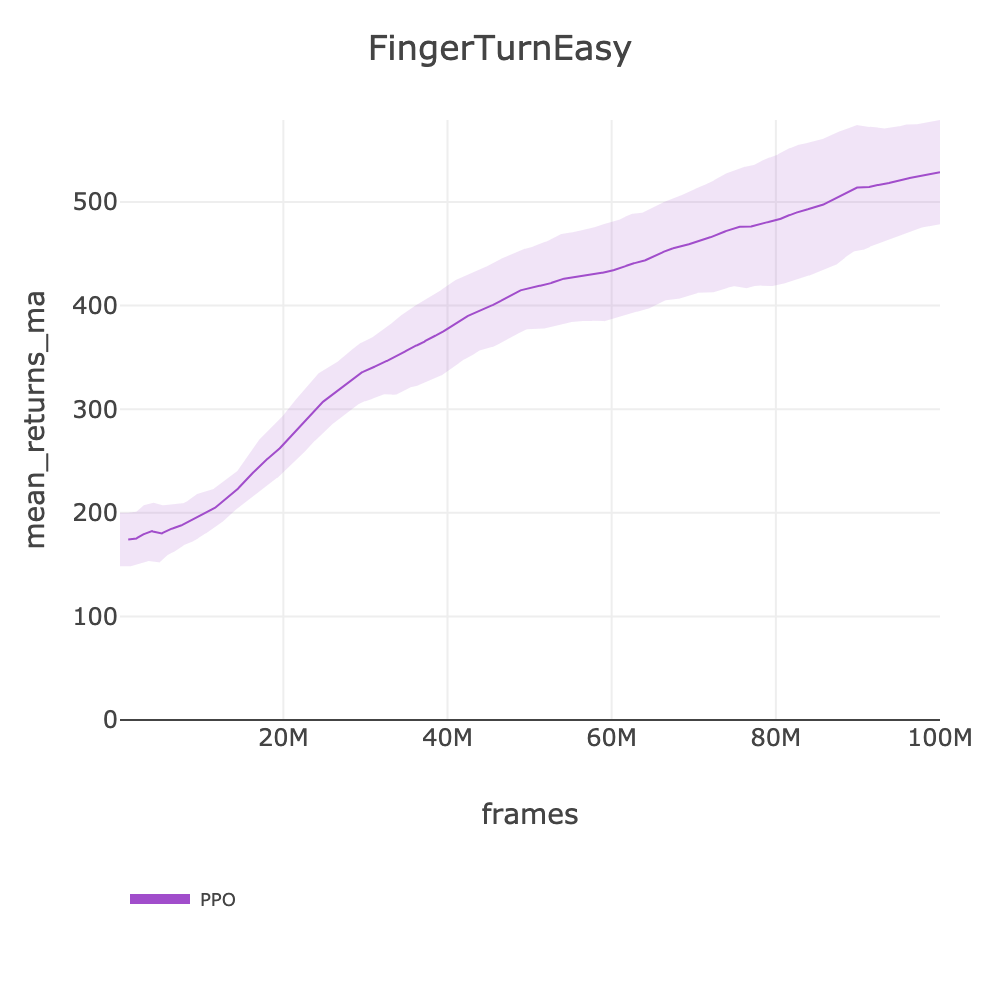
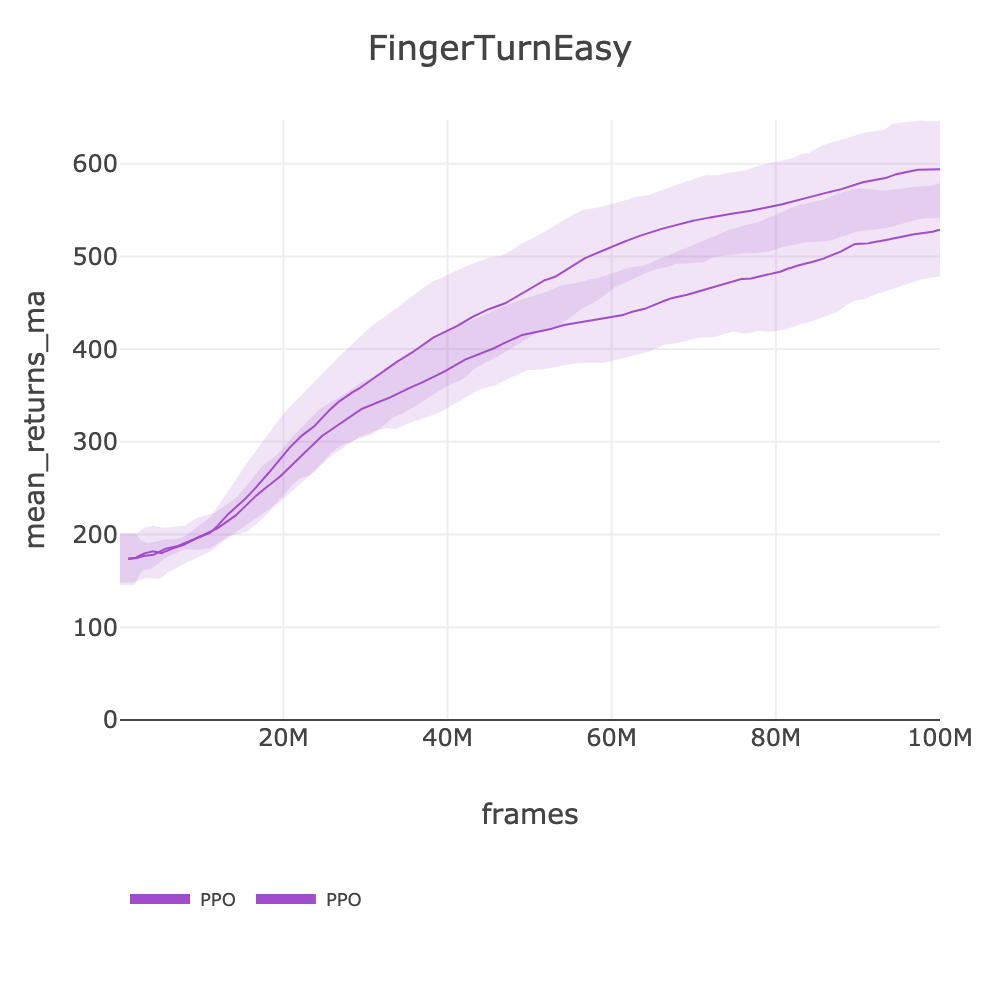
feat: intake PPO FingerTurnEasy (594, ❌) — +12% vs v1, still climbing

diff --git a/docs/BENCHMARKS.md b/docs/BENCHMARKS.md
@@ -918,10 +918,10 @@ source .env && uv run slm-lab run-remote --gpu \
 | playground/FingerSpin | PPO | ⚠ | 500.95 | ppo_playground | [ppo_playground_v2_fingerspin_2026_03_11_182614](https://huggingface.co/datasets/SLM-Lab/benchmark-dev/tree/main/data/ppo_playground_v2_fingerspin_2026_03_11_182614) | 600 | 15920 | 100M | 1h 45m |
 | | CrossQ | 🔄 | - | crossq_playground | - | | - | - | - |
 | | SAC | 🔄 | - | sac_playground | - | | - | - | - |
-| playground/FingerTurnEasy | PPO | ❌ | 528.73 | ppo_playground | [ppo_playground_fingerturneasy_2026_03_11_123957](https://huggingface.co/datasets/SLM-Lab/benchmark-dev/tree/main/data/ppo_playground_fingerturneasy_2026_03_11_123957) | 950 | 10590 | 100M | 2h 37m |
+| playground/FingerTurnEasy | PPO | ❌ | 593.91 | ppo_playground | [ppo_playground_v2_fingerturneasy_2026_03_11_190315](https://huggingface.co/datasets/SLM-Lab/benchmark-dev/tree/main/data/ppo_playground_v2_fingerturneasy_2026_03_11_190315) | 950 | 15370 | 100M | 1h 48m |
 | | CrossQ | 🔄 | - | crossq_playground | - | | - | - | - |
 | | SAC | 🔄 | - | sac_playground | - | | - | - | - |
-| playground/FingerTurnHard | PPO | ❌ | 455.30 | ppo_playground | [ppo_playground_v2_fingerturnhard_2026_03_11_182615](https://huggingface.co/datasets/SLM-Lab/benchmark-dev/tree/main/data/ppo_playground_v2_fingerturnhard_2026_03_11_182615) | 950 | 16010 | 100M | 1h 44m |
+| playground/FingerTurnHard | PPO | ❌ | 455.30 | ppo_playground_v2 | [ppo_playground_v2_fingerturnhard_2026_03_11_182615](https://huggingface.co/datasets/SLM-Lab/benchmark-dev/tree/main/data/ppo_playground_v2_fingerturnhard_2026_03_11_182615) | 950 | 16010 | 100M | 1h 44m |
 | | CrossQ | 🔄 | - | crossq_playground | - | | - | - | - |
 | | SAC | 🔄 | - | sac_playground | - | | - | - | - |
 | playground/FishSwim | PPO | ❌ | 104.20 | ppo_playground | [ppo_playground_fishswim_2026_03_11_142859](https://huggingface.co/datasets/SLM-Lab/benchmark-dev/tree/main/data/ppo_playground_fishswim_2026_03_11_142859) | 650 | 10010 | 50M | 1h 23m |
@@ -957,7 +957,7 @@ source .env && uv run slm-lab run-remote --gpu \
 | playground/SwimmerSwimmer6 | PPO | ❌ | 161.07 | ppo_playground | [ppo_playground_swimmerswimmer6_2026_03_11_152737](https://huggingface.co/datasets/SLM-Lab/benchmark-dev/tree/main/data/ppo_playground_swimmerswimmer6_2026_03_11_152737) | 560 | 11310 | 50M | 1h 14m |
 | | CrossQ | 🔄 | - | crossq_playground | - | | - | - | - |
 | | SAC | 🔄 | - | sac_playground | - | | - | - | - |
-| playground/WalkerRun | PPO | ⚠ | 482.17 | ppo_playground | [ppo_playground_v2_walkerrun_2026_03_11_182608](https://huggingface.co/datasets/SLM-Lab/benchmark-dev/tree/main/data/ppo_playground_v2_walkerrun_2026_03_11_182608) | 560 | 11720 | 100M | 2h 22m |
+| playground/WalkerRun | PPO | ⚠ | 482.17 | ppo_playground_v2 | [ppo_playground_v2_walkerrun_2026_03_11_182608](https://huggingface.co/datasets/SLM-Lab/benchmark-dev/tree/main/data/ppo_playground_v2_walkerrun_2026_03_11_182608) | 560 | 11720 | 100M | 2h 22m |
 | | CrossQ | 🔄 | - | crossq_playground | - | | - | - | - |
 | | SAC | 🔄 | - | sac_playground | - | | - | - | - |
 | playground/WalkerStand | PPO | ⚠ | 781.26 | ppo_playground | [ppo_playground_walkerstand_2026_03_11_100507](https://huggingface.co/datasets/SLM-Lab/benchmark-dev/tree/main/data/ppo_playground_walkerstand_2026_03_11_100507) | 1000 | 10170 | 100M | 2h 44m |
